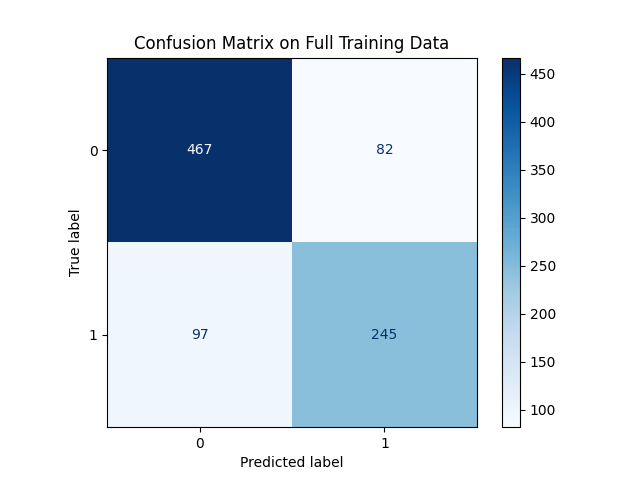
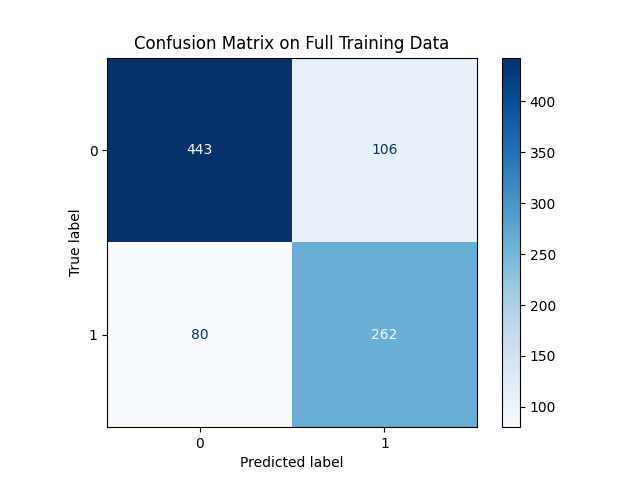
Added HPT to TitanicSurvival

diff --git a/Titanic Survival/Main.py b/Titanic Survival/Main.py
@@ -12,7 +12,7 @@ from sklearn.model_selection import train_test_split
 from sklearn.metrics import ConfusionMatrixDisplay
 from sklearn.metrics import roc_curve, auc
 import joblib
-
+from sklearn.model_selection import GridSearchCV
 
 df_Train = pd.read_csv('TitanicTrain.csv')
 df_Test = pd.read_csv('TitanicTest.csv')
@@ -46,9 +46,33 @@ scaler = StandardScaler()
 X_train_scaled = scaler.fit_transform(X_train)
 X_val_scaled = scaler.transform(X_val)
 
+# Applying Grid Search for Hyperparameter Tuning to increase model performance
+param_grid = {
+    'C': [0.01,0.1,1,10,100],
+    'penalty' : ['l1','l2'],
+    'solver' : ['liblinear','saga'],
+    'max_iter': [100,200,500,1000]
+}
+
+base_model = LogisticRegression()
+grid_search = GridSearchCV(
+    estimator=base_model,
+    param_grid=param_grid,
+    scoring='f1',
+    cv=10,
+    n_jobs=-1,
+    verbose=1
+)
+
+grid_search.fit(X_train_scaled, Y_train)
+
+print("Best Hyperparameters:", grid_search.best_params_)
+print("Best cross validation Score:", grid_search.best_score_)
+
+
+
 # Training the Model
-model = LogisticRegression(max_iter=1000)
-model.fit(X_train_scaled, Y_train)
+model = grid_search.best_estimator_
 
 # Evaluating the Model on Training Data
 Y_pred = model.predict(X_train_scaled)
@@ -78,7 +102,7 @@ X_test = df_Test[X_full_train.columns]
 X_test_scaled = scaler.transform(X_test)
 
 # Train the final model
-finalmodel = LogisticRegression(max_iter=1000)
+finalmodel = LogisticRegression(**grid_search.best_params_, class_weight='balanced')
 finalmodel.fit(X_full_train_scaled, Y_full_train)
 
 # Save the model
